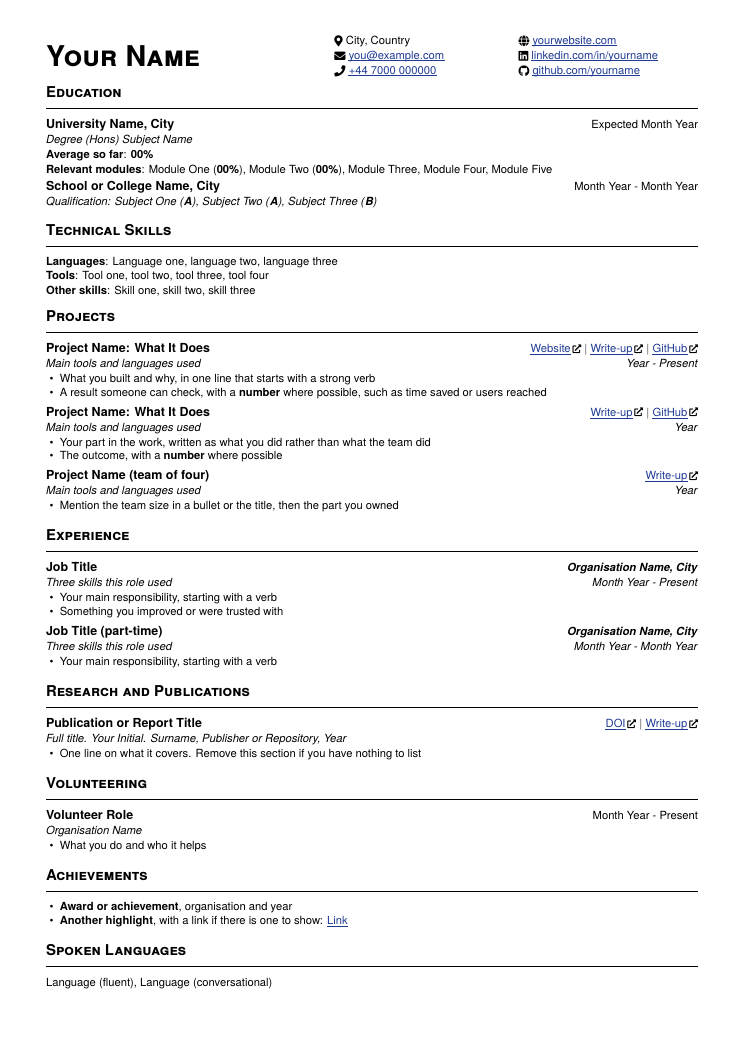
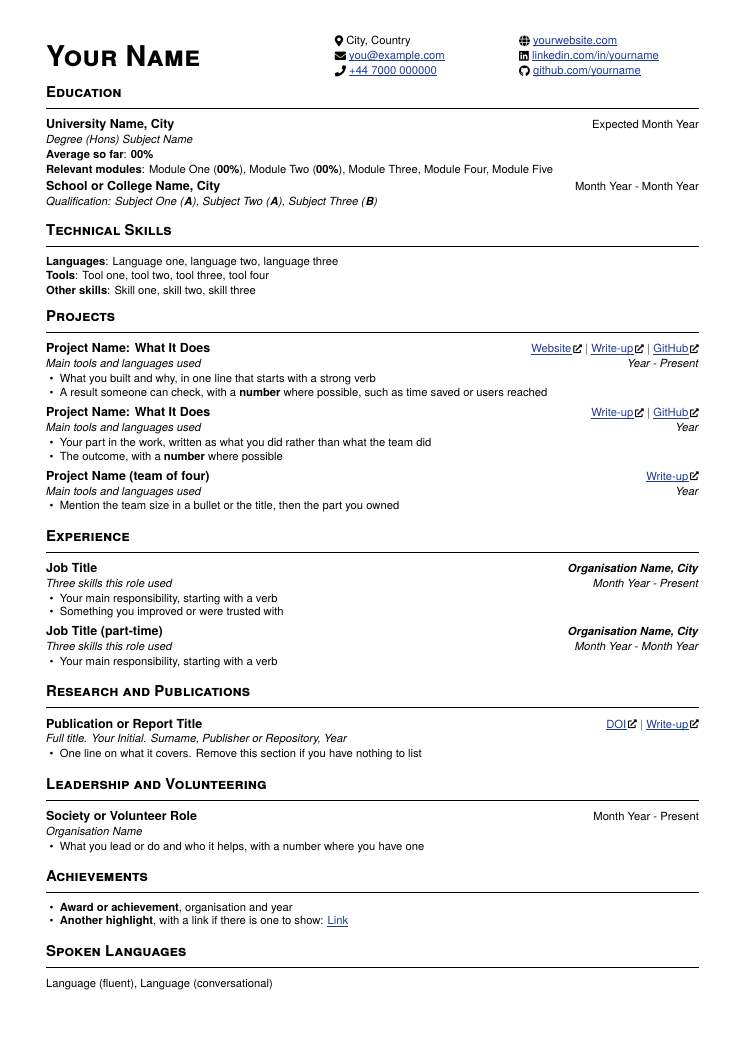
feat: rename Volunteering to Leadership and Volunteering (#17)
Closes #16

diff --git a/cv/cv.tex b/cv/cv.tex
@@ -86,11 +86,11 @@
 \begin{itemize}
   \item One line on what it covers. Remove this section if you have nothing to list
 \end{itemize}
-\section{Volunteering}
-\needspace{3\baselineskip}\textbf{Volunteer Role}\hfill{\small Month Year - Present}\par
+\section{Leadership and Volunteering}
+\needspace{3\baselineskip}\textbf{Society or Volunteer Role}\hfill{\small Month Year - Present}\par
 {\small\textit{Organisation Name}}\hfill{\small\textit{}}\par
 \begin{itemize}
-  \item What you do and who it helps
+  \item What you lead or do and who it helps, with a number where you have one
 \end{itemize}
 \section{Achievements}
 \begin{itemize}

diff --git a/README.md b/README.md
@@ -12,7 +12,7 @@ walks through every part.
 
 | File | What it is |
 | --- | --- |
-| [`cv/cv.tex`](cv/cv.tex) | The CV: education, skills, projects, experience, publications, volunteering, achievements and languages |
+| [`cv/cv.tex`](cv/cv.tex) | The CV: education, skills, projects, experience, publications, leadership and volunteering, achievements and languages |
 | [`cover-letter/cover-letter.tex`](cover-letter/cover-letter.tex) | A one-page letter with the same header and highlighted placeholders to fill in |
 | [`cv/cv.pdf`](cv/cv.pdf), [`cover-letter/cover-letter.pdf`](cover-letter/cover-letter.pdf) | The compiled examples |
 | [`cv/cv.docx`](cv/cv.docx), [`cover-letter/cover-letter.docx`](cover-letter/cover-letter.docx) | Word versions of the same example text, for anyone not using LaTeX |

diff --git a/CHANGELOG.md b/CHANGELOG.md
@@ -16,6 +16,7 @@ Versioning follows [Semantic Versioning](https://semver.org/spec/v2.0.0.html).
 
 ### Changed
 
+- The Volunteering section is now Leadership and Volunteering, so it also holds society and representative roles
 - The header and link icons are black, so only the link text carries the link colour
 - The CV and the cover letter each live in their own folder, `cv/` and `cover-letter/`, with their compiled PDFs
 
